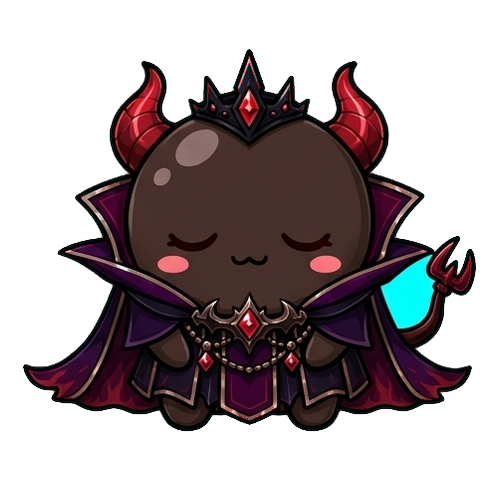
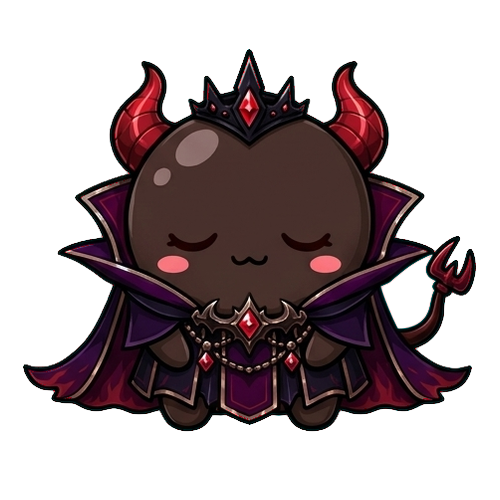
fix: harden build 8 release readiness

Changed region(s): [[0.75, 0.51, 0.87, 0.66]]

diff --git a/styles.css b/styles.css
@@ -220,6 +220,12 @@ body {
      1400), 1.16) is invalid — it silently poisoned every size that used it and
      collapsed the counter to 0 height. */
   --fig: 1;
+  /* One shared horizontal correction for the two focal objects. Their rendered
+     artwork has transparent margins inside each box, and those alpha bounds
+     put the visible character/cup midpoint about 8px right of the viewport
+     centre at 375px. Shift both boxes left together without changing their
+     spacing or introducing different per-object nudges. */
+  --stage-shift: -8px;
   /* Was clamp(400px, 52vh, 450px), which put the control band at 45% of the
      screen and only ~11% of that band was empty, so the shop was being hidden by
      controls rather than by dead space. The stack itself is now ~35px shorter
@@ -236,7 +242,11 @@ body {
      471, timer card top 537. The floor comes down by the same 54px so the
      counter lands ~12px under the card again, exactly the clearance it had
      before, and the scene keeps its composition. */
-  --floor-rest: clamp(256px, 35vh, 296px);
+  /* The tableau's counter top used to land at y444 on a 375x812 phone, making
+     the focal scene feel bottom-heavy against the large empty shop window.
+     A 16px lift puts it at y428 while preserving clear space above the timer
+     and keeping the character, cup and counter on one baseline. */
+  --floor-rest: clamp(272px, 37vh, 312px);
   --floor-y: var(--floor-rest);
   /* WAS 53px, the height of the size picker, on the assumption that the stack
      is exactly that much shorter once a session starts and the picker leaves.
@@ -1296,7 +1306,7 @@ body {
    walk to the cup while still bobbing/wiggling — the two transforms compose. */
 .maker-wrap {
   position: absolute;
-  left: 18px;
+  left: calc(18px + var(--stage-shift));
   /* z-index ABOVE the counter (8) so he stands AT it, ~85% visible; his feet
      fade behind the counter lip via the mask on .maker-img */
   bottom: calc(var(--floor-y) + 16px);
@@ -1513,7 +1523,8 @@ body {
 /* ── Boba cup (image + liquid fill) ─────────────────────────────────────── */
 .cup-stage {
   position: absolute;
-  right: calc(22px * var(--fig)); top: calc(-120px * var(--fig));
+  right: calc(22px * var(--fig) - var(--stage-shift));
+  top: calc(-120px * var(--fig));
   width: calc(130px * var(--fig)); height: calc(174px * var(--fig));
   z-index: 5;
   pointer-events: none;
@@ -4236,7 +4247,7 @@ dialog[open] .reward-confetti span:nth-child(7) { animation-delay: 0.02s; }
      breakpoint (it was already 41px in before this change). Zero, matching the
      tall breakpoint, and --floor-rest measured so the counter clears the card by
      ~9px running and ~31px idle. */
-  .scene { --floor-rest: 263px; --floor-lift: 0px; }
+  .scene { --floor-rest: 279px; --floor-lift: 0px; }
   /* Keep the break nook lifted clear of the compact panel, but lower than on tall
      phones so the bed doesn't crowd the top HUD on short screens. */
   .scene.is-on-break.is-on-break { --floor-y: clamp(280px, 46vh, 360px); }

diff --git a/tests/visual-regression.test.js b/tests/visual-regression.test.js
@@ -1,0 +1,35 @@
+const test = require("node:test");
+const assert = require("node:assert/strict");
+const { execFileSync } = require("node:child_process");
+const { readFileSync } = require("node:fs");
+const { resolve } = require("node:path");
+
+const ROOT = resolve(__dirname, "..");
+
+function pngProbe(...paths) {
+  const out = execFileSync("python3", [
+    "-c",
+    `from PIL import Image\nimport json, sys\nout = {}\nanchors = ((250,200),(100,350),(400,350))\nfor p in sys.argv[1:]:\n im = Image.open(p).convert("RGBA")\n pixels = list(im.getdata())\n cyan = [(i % im.width, i // im.width) for i,(r,g,b,a) in enumerate(pixels) if a >= 230 and r <= 40 and g >= 220 and b >= 220]\n opaque = sum(a >= 230 for r,g,b,a in pixels)\n out[p] = {"opaque": opaque, "opaque_cyan": len(cyan), "anchor_alpha": [im.getpixel(xy)[3] for xy in anchors]}\nprint(json.dumps(out))`,
+    ...paths.map((p) => resolve(ROOT, p)),
+  ], { encoding: "utf8" });
+  return JSON.parse(out);
+}
+
+test("Devil pose art removes trapped cyan without erasing the character", () => {
+  const paths = ["idle", "mixing", "sleeping", "shocked"].map((s) => `assets/poses/devil-${s}.png`);
+  const probe = pngProbe(...paths);
+  for (const p of paths) {
+    const art = probe[resolve(ROOT, p)];
+    assert.ok(art.opaque >= 90_000, `${p} lost most of its opaque character art`);
+    assert.equal(art.opaque_cyan, 0, `${p} still contains the trapped cyan key color`);
+    assert.deepEqual(art.anchor_alpha, [255, 255, 255], `${p} erased stable character pixels`);
+  }
+});
+
+test("phone focus tableau uses the shared stage shift and raised floor", () => {
+  const css = readFileSync(resolve(ROOT, "styles.css"), "utf8");
+  assert.match(css, /--stage-shift:\s*-8px/);
+  assert.match(css, /--floor-rest:\s*clamp\(272px,\s*37vh,\s*312px\)/);
+  assert.match(css, /left:\s*calc\(18px \+ var\(--stage-shift\)\)/);
+  assert.match(css, /right:\s*calc\(22px \* var\(--fig\) - var\(--stage-shift\)\)/);
+});

diff --git a/tests/privacy-rewards.test.js b/tests/privacy-rewards.test.js
@@ -4,6 +4,7 @@ const fs = require("node:fs");
 const path = require("node:path");
 
 const privacy = fs.readFileSync(path.join(__dirname, "..", "privacy.html"), "utf8");
+const rewardSql = fs.readFileSync(path.join(__dirname, "..", "supabase-reward-v2.sql"), "utf8");
 
 test("privacy policy discloses anonymous server-backed reward records", () => {
   assert.match(privacy, /Partner rewards/);
@@ -12,6 +13,13 @@ test("privacy policy discloses anonymous server-backed reward records", () => {
   assert.match(privacy, /not.*advertising/i);
 });
 
-test("privacy policy says account deletion removes reward records too", () => {
-  assert.match(privacy, /reward history[\s\S]*deleted/i);
+test("privacy policy accurately distinguishes deleted reward data from retained shop audit rows", () => {
+  const eventTable = rewardSql.match(/create table if not exists public\.redemption_events \(([\s\S]*?)\n\);/i);
+  assert.ok(eventTable, "redemption_events table is missing");
+  assert.doesNotMatch(eventTable[1], /references auth\.users|references public\.reward_instances/i,
+    "this disclosure test must change if deletion begins cascading into redemption_events");
+
+  assert.match(privacy, /session records[\s\S]*rewards that have not been used[\s\S]*active[\s\S]*redemption codes are deleted/i);
+  assert.match(privacy, /past anonymous redemption attempt records[\s\S]*remain/i);
+  assert.match(privacy, /no longer linked to an account or Study[\s\S]*Squad profile/i);
 });

diff --git a/privacy.html b/privacy.html
@@ -137,8 +137,11 @@
       <h2>9. Data retention &amp; deletion</h2>
       <p>Deleting the app removes all on-device data. If you used Study Squad, you can delete your
       anonymous cloud account in <strong>Settings → Delete account</strong> at any time. Your
-      Study Squad profile, reward history, active redemption codes, and related anonymous session
-      records are deleted with that account.</p>
+      Study Squad profile, reward session records, rewards that have not been used, and active
+      redemption codes are deleted with that account. Past anonymous redemption attempt records
+      remain so we can keep an accurate count for partner shops and investigate problems at the
+      counter. After account deletion, those records are no longer linked to an account or Study
+      Squad profile.</p>
 
       <h2>10. Changes to this policy</h2>
       <p>If this policy changes, we'll update the date at the top of this page.</p>

diff --git a/tests/sw-music-range.test.js b/tests/sw-music-range.test.js
@@ -197,7 +197,7 @@ test("MUSIC_CACHE survives an activate that clears old shell caches", async () =
             clients: { claim: () => {} } },
     caches: {
       open: async () => makeCache(),
-      keys: async () => ["mr-tapioca-v9", "mr-tapioca-v192", "mr-tapioca-music-v1"],
+      keys: async () => ["mr-tapioca-v9", "mr-tapioca-v193", "mr-tapioca-music-v1"],
       delete: async (k) => { deleted.push(k); return true; },
     },
     fetch: async () => okBody(),

diff --git a/sw.js b/sw.js
@@ -7,7 +7,7 @@
 // and every user silently keeps the OLD cache — updates stop shipping with no
 // error anywhere. That happened: assets/Bed.png was deleted and left listed
 // here, which pinned clients to pre-rebuild art. tools/check-shell.py guards it.
-const CACHE = "mr-tapioca-v192";
+const CACHE = "mr-tapioca-v193";
 
 // Focus-tune audio lives in its OWN cache, on purpose, and is deliberately NOT
 // in SHELL below. Two reasons, both learned the hard way:

diff --git a/tests/ios-sync-script.test.js b/tests/ios-sync-script.test.js
@@ -13,3 +13,7 @@ test("iOS sync stops before plugin registration when Capacitor sync fails", () =
 test("release setup reapplies the generated iOS version and portrait settings", () => {
   assert.match(pkg.scripts["ios:release-setup"], /npm run ios:sync && node tools\/set-ios-version\.mjs 1\.1\.1 8/);
 });
+
+test("the release uses an exact local-notifications version", () => {
+  assert.equal(pkg.dependencies["@capacitor/local-notifications"], "6.1.3");
+});
